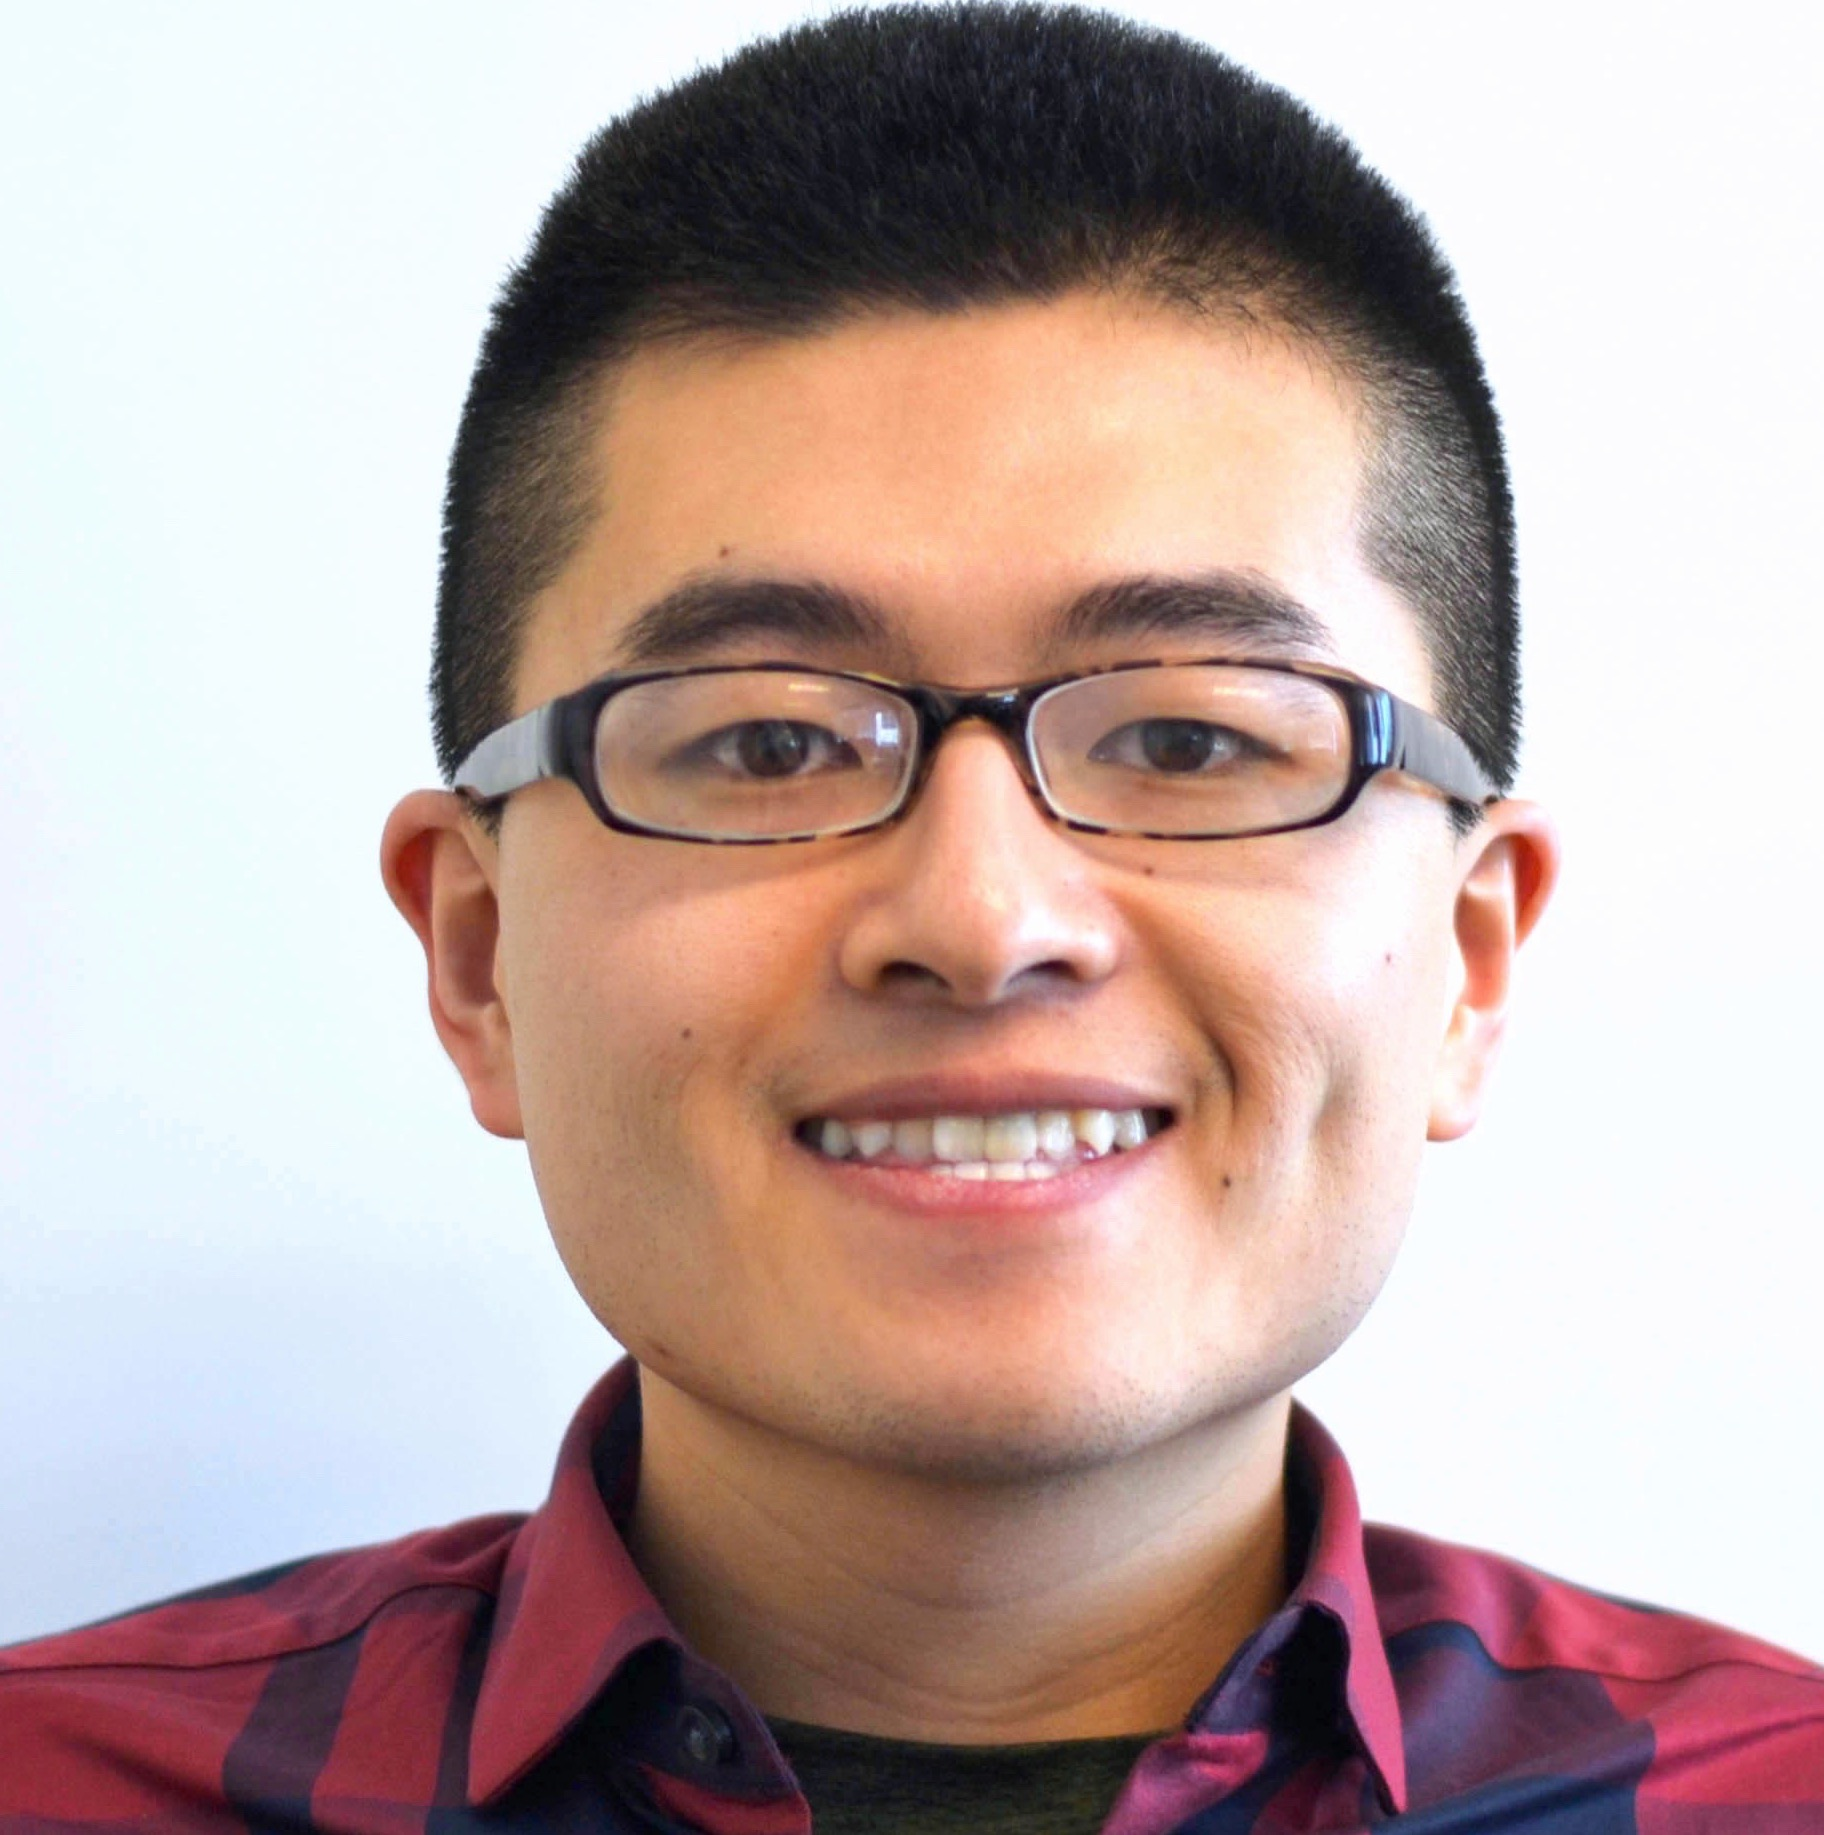
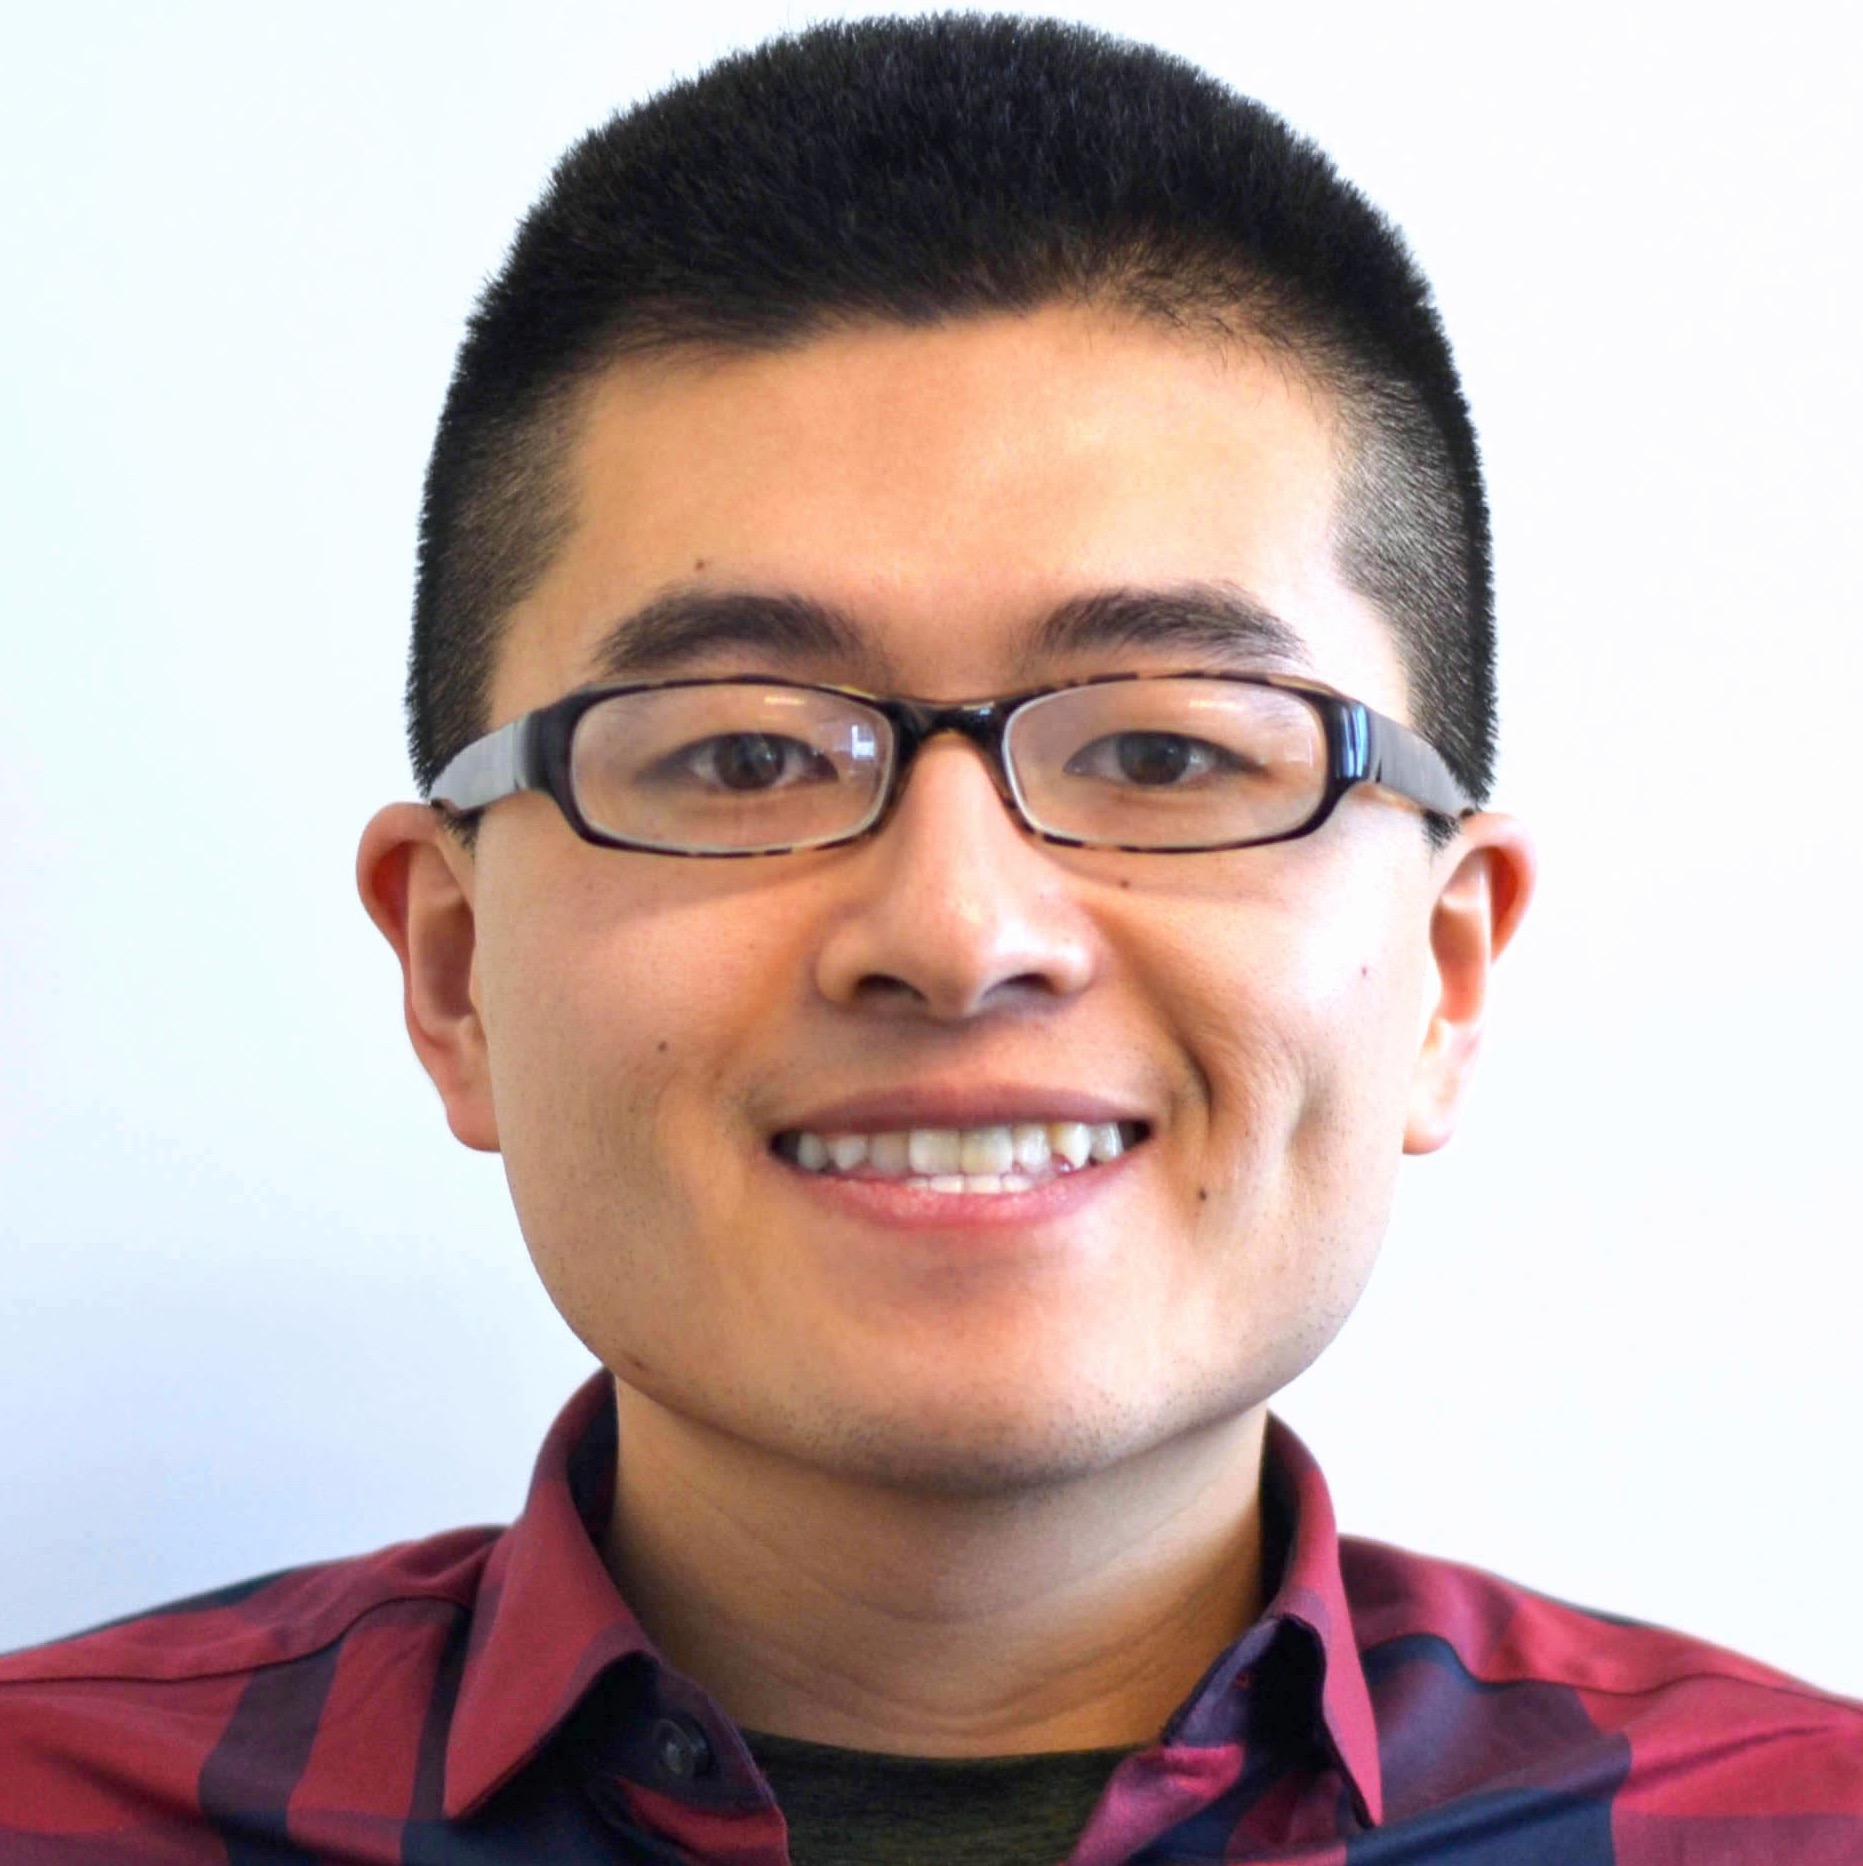
recenter photo

diff --git a/index.html b/index.html
@@ -69,8 +69,7 @@
 					<a href="#one" class="goto-next scrolly">Next</a>
 				</section>
 
-			<!-- One -->
-				<section id="one" class="spotlight style1 bottom">
+				<!-- <section id="one" class="spotlight style1 bottom">
 					<span class="image fit main"><img src="images/pic02.jpg" alt="" /></span>
 					<div class="content">
 						<div class="container">
@@ -99,10 +98,10 @@
 						</div>
 					</div>
 					<a href="#two" class="goto-next scrolly">Next</a>
-				</section>
+				</section> -->
 
 			<!-- Two -->
-				<section id="two" class="spotlight style2 right">
+				<section id="one" class="spotlight style1 right">
 					<span class="image fit main"><img src="images/mixr.png" alt="" /></span>
 					<div class="content">
 						<header>
@@ -118,7 +117,7 @@
 				</section>
 
 			<!-- Three -->
-				<section id="three" class="spotlight style3 left">
+				<section id="two" class="spotlight style2 left">
 					<span class="image fit main bottom"><img src="https://giant.gfycat.com/SimplisticPleasedIrukandjijellyfish.gif" alt="" /></span>
 					<div class="content">
 						<header>
@@ -131,6 +130,21 @@
 						</ul>
 					</div>
 					<a href="#four" class="goto-next scrolly">Next</a>
+				</section>
+
+				<section id="three" class="spotlight style3 right">
+					<span class="image fit main"><img src="images/mixr.png" alt="" /></span>
+					<div class="content">
+						<header>
+							<h2>Mixr</h2>
+							<p>Single Page Web App built on React / Redux and Ruby On Rails</p>
+						</header>
+						<p>A microblogging website inspired by Tumblr</p>
+						<ul class="actions">
+							<li><a href="http://mixr-app.herokuapp.com/#/" class="button">Visit Mixr</a></li>
+						</ul>
+					</div>
+					<a href="#three" class="goto-next scrolly">Next</a>
 				</section>
 
 			<!-- Four -->
